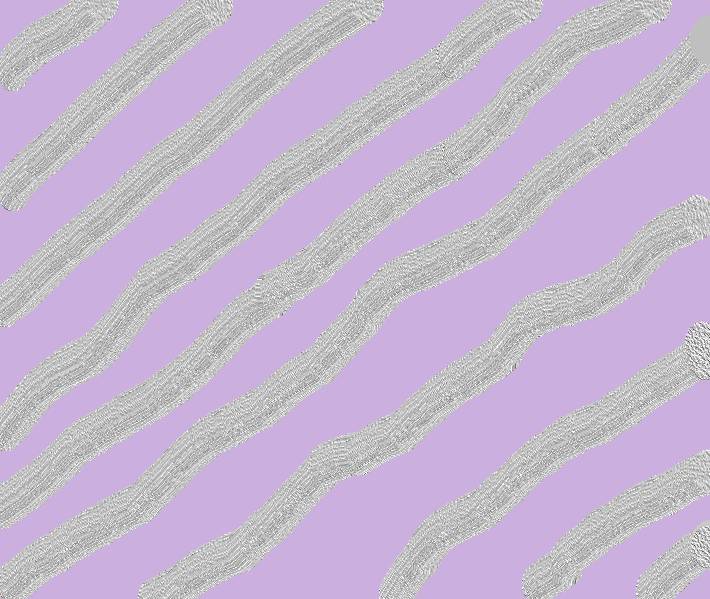
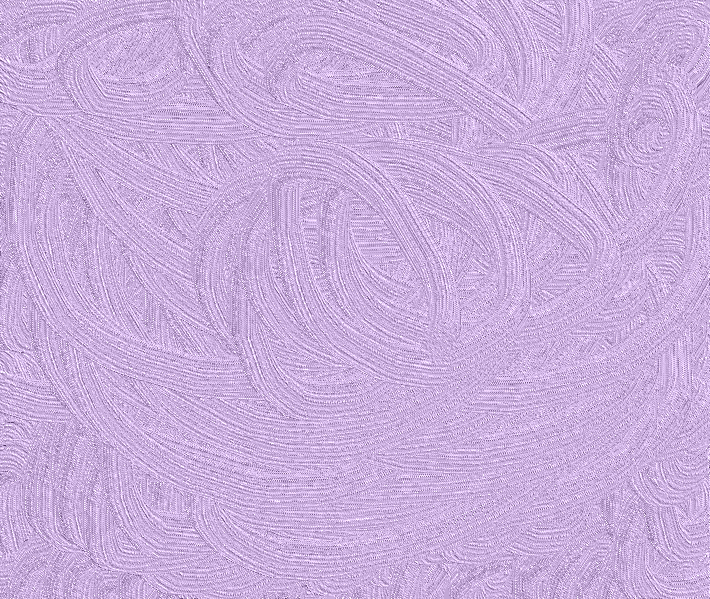
background

diff --git a/assets/css/style.css b/assets/css/style.css
@@ -61,5 +61,5 @@ p {
 }
 
 .container-fluid-body {
-    background-color: var(--orchid);
+    background-image: url("../images/background.png");
 }
